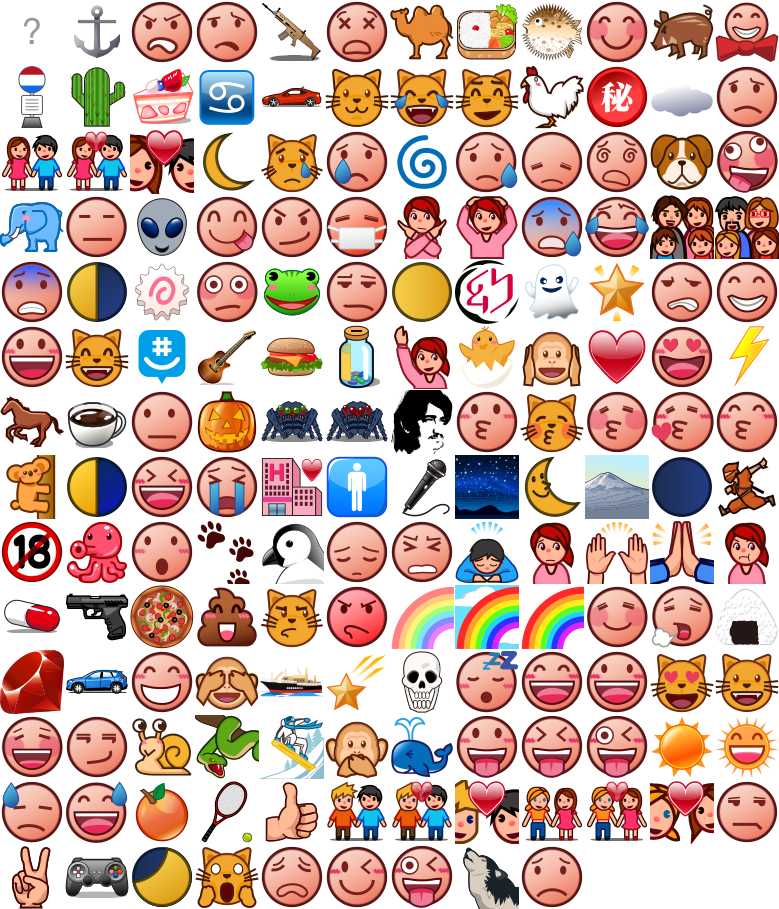
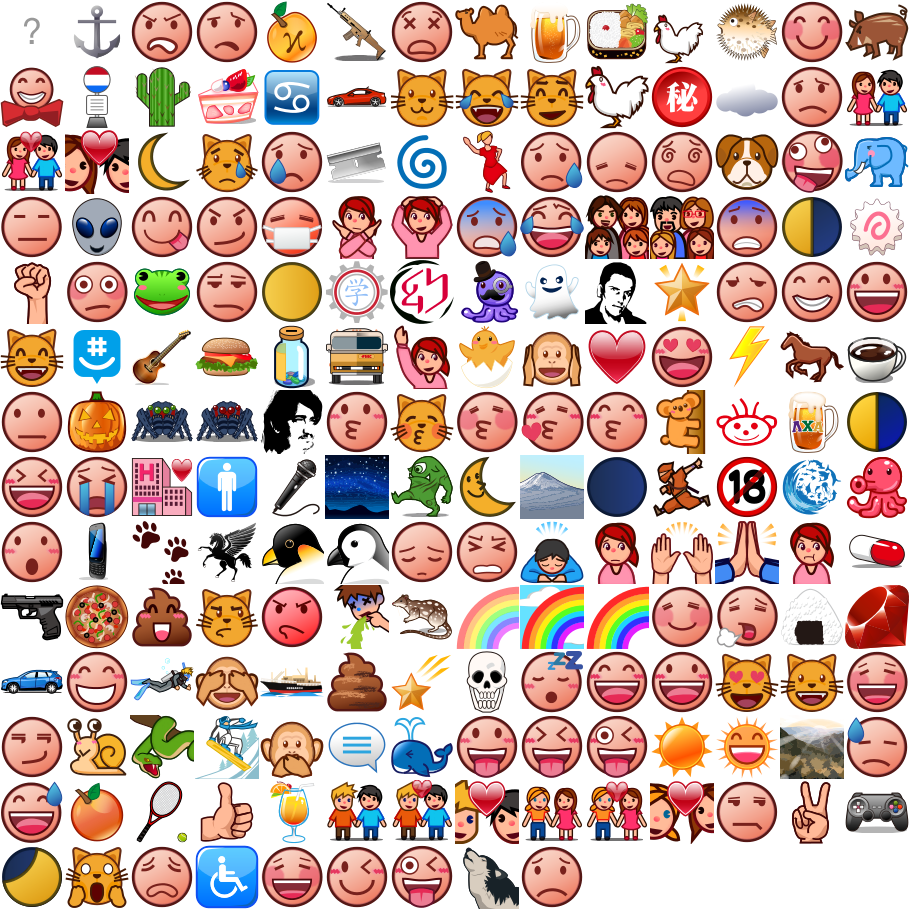
added 26 new emoji
git-svn-id: https://plugins.svn.wordpress.org/open-source-emoji/trunk@735367 b8457f37-d9ea-0310-8a92-e5e31aec5664

diff --git a/pub/css/emoji-phantom.css b/pub/css/emoji-phantom.css
@@ -37,167 +37,193 @@ small .emojified .emoji,
 
 
 /* sprite */
-.emoji-anchor { background-position: 9.103641% 0; }
-.emoji-angry_face { background-position: 18.207283% 0; }
-.emoji-anguished { background-position: 27.310924% 0; }
-.emoji-assault_rifle { background-position: 36.414566% 0; }
-.emoji-astonished_face { background-position: 45.518207% 0; }
-.emoji-bactrian_camel { background-position: 54.621849% 0; }
-.emoji-bento_box { background-position: 63.725490% 0; }
-.emoji-blowfish { background-position: 72.829132% 0; }
-.emoji-blush { background-position: 81.932773% 0; }
-.emoji-boar { background-position: 91.036415% 0; }
-.emoji-bowtie { background-position: 100.140056% 0; }
-.emoji-bus_stop { background-position: 0 7.701422%; }
-.emoji-cactus { background-position: 9.103641% 7.701422%; }
-.emoji-cake { background-position: 18.207283% 7.701422%; }
-.emoji-cancer { background-position: 27.310924% 7.701422%; }
-.emoji-car { background-position: 36.414566% 7.701422%; }
-.emoji-cat_face { background-position: 45.518207% 7.701422%; }
-.emoji-cat_face_with_tears_of_joy { background-position: 54.621849% 7.701422%; }
-.emoji-cat_face_with_wry_smile { background-position: 63.725490% 7.701422%; }
-.emoji-chicken { background-position: 72.829132% 7.701422%; }
-.emoji-circled_ideograph_secret { background-position: 81.932773% 7.701422%; }
-.emoji-cloud { background-position: 91.036415% 7.701422%; }
-.emoji-confused { background-position: 100.140056% 7.701422%; }
-.emoji-couple_holding_hands { background-position: 0 15.402844%; }
-.emoji-couple_in_love { background-position: 9.103641% 15.402844%; }
-.emoji-couple_with_heart { background-position: 18.207283% 15.402844%; }
-.emoji-crescent_moon { background-position: 27.310924% 15.402844%; }
-.emoji-crying_cat_face { background-position: 36.414566% 15.402844%; }
-.emoji-crying_face { background-position: 45.518207% 15.402844%; }
-.emoji-cyclone { background-position: 54.621849% 15.402844%; }
-.emoji-disappointed_but_relieved_face { background-position: 63.725490% 15.402844%; }
-.emoji-disappointed_face { background-position: 72.829132% 15.402844%; }
-.emoji-dizzy_face { background-position: 81.932773% 15.402844%; }
-.emoji-dog_face { background-position: 91.036415% 15.402844%; }
-.emoji-drunk { background-position: 100.140056% 15.402844%; }
-.emoji-elephant { background-position: 0 23.104265%; }
-.emoji-expressionless { background-position: 9.103641% 23.104265%; }
-.emoji-extraterrestrial_alien { background-position: 18.207283% 23.104265%; }
-.emoji-face_savouring_delicious_food { background-position: 27.310924% 23.104265%; }
-.emoji-face_with_look_of_triumph { background-position: 36.414566% 23.104265%; }
-.emoji-face_with_medical_mask { background-position: 45.518207% 23.104265%; }
-.emoji-face_with_no_good_gesture { background-position: 54.621849% 23.104265%; }
-.emoji-face_with_ok_gesture { background-position: 63.725490% 23.104265%; }
-.emoji-face_with_open_mouth_and_cold_sweat { background-position: 72.829132% 23.104265%; }
-.emoji-face_with_tear_of_joy { background-position: 81.932773% 23.104265%; }
-.emoji-family { background-position: 91.036415% 23.104265%; }
-.emoji-family_daughters { background-position: 100.140056% 23.104265%; }
-.emoji-fearful_face { background-position: 0 30.805687%; }
-.emoji-first_quarter_moon { background-position: 9.103641% 30.805687%; }
-.emoji-fish_cake_with_swirl_design { background-position: 18.207283% 30.805687%; }
-.emoji-flushed { background-position: 27.310924% 30.805687%; }
-.emoji-frog_face { background-position: 36.414566% 30.805687%; }
-.emoji-frowning { background-position: 45.518207% 30.805687%; }
-.emoji-full_moon { background-position: 54.621849% 30.805687%; }
-.emoji-genshin { background-position: 63.725490% 30.805687%; }
-.emoji-ghost { background-position: 72.829132% 30.805687%; }
-.emoji-glowing_star { background-position: 81.932773% 30.805687%; }
-.emoji-grimacing { background-position: 91.036415% 30.805687%; }
-.emoji-grin { background-position: 100.140056% 30.805687%; }
-.emoji-grinning { background-position: 0 38.507109%; }
-.emoji-grinning_cat_face_with_smiling_eyes { background-position: 9.103641% 38.507109%; }
-.emoji-groupme { background-position: 18.207283% 38.507109%; }
-.emoji-guitar { background-position: 27.310924% 38.507109%; }
-.emoji-hamburger { background-position: 36.414566% 38.507109%; }
-.emoji-happijar { background-position: 45.518207% 38.507109%; }
-.emoji-happy_person_raising_one_hand { background-position: 54.621849% 38.507109%; }
-.emoji-hatching_chick { background-position: 63.725490% 38.507109%; }
-.emoji-hear_no_evil_monkey { background-position: 72.829132% 38.507109%; }
-.emoji-heart { background-position: 81.932773% 38.507109%; }
-.emoji-heart_eyes { background-position: 91.036415% 38.507109%; }
-.emoji-high_voltage_sign { background-position: 100.140056% 38.507109%; }
-.emoji-horse { background-position: 0 46.208531%; }
-.emoji-hot_beverage { background-position: 9.103641% 46.208531%; }
-.emoji-hushed { background-position: 18.207283% 46.208531%; }
-.emoji-jack_o_lantern { background-position: 27.310924% 46.208531%; }
-.emoji-jumping_spider { background-position: 36.414566% 46.208531%; }
-.emoji-jumping_spider_red { background-position: 45.518207% 46.208531%; }
-.emoji-kagetsuki { background-position: 54.621849% 46.208531%; }
-.emoji-kissing { background-position: 63.725490% 46.208531%; }
-.emoji-kissing_cat_face_with_closed_eyes { background-position: 72.829132% 46.208531%; }
-.emoji-kissing_closed_eyes { background-position: 81.932773% 46.208531%; }
-.emoji-kissing_heart { background-position: 91.036415% 46.208531%; }
-.emoji-kissing_smiling_eyes { background-position: 100.140056% 46.208531%; }
-.emoji-koala { background-position: 0 53.909953%; }
-.emoji-last_quarter_moon { background-position: 9.103641% 53.909953%; }
-.emoji-laughing { background-position: 18.207283% 53.909953%; }
-.emoji-loudly_crying_face { background-position: 27.310924% 53.909953%; }
-.emoji-love_hotel { background-position: 36.414566% 53.909953%; }
-.emoji-mens_symbol { background-position: 45.518207% 53.909953%; }
-.emoji-microphone { background-position: 54.621849% 53.909953%; }
-.emoji-milky_way { background-position: 63.725490% 53.909953%; }
-.emoji-moon_with_face { background-position: 72.829132% 53.909953%; }
-.emoji-mount_fuji { background-position: 81.932773% 53.909953%; }
-.emoji-new_moon { background-position: 91.036415% 53.909953%; }
-.emoji-ninja { background-position: 100.140056% 53.909953%; }
-.emoji-no_one_under_eighteen_symbol { background-position: 0 61.611374%; }
-.emoji-octopus { background-position: 9.103641% 61.611374%; }
-.emoji-open_mouth { background-position: 18.207283% 61.611374%; }
-.emoji-paw_prints { background-position: 27.310924% 61.611374%; }
-.emoji-penguin { background-position: 36.414566% 61.611374%; }
-.emoji-pensive_face { background-position: 45.518207% 61.611374%; }
-.emoji-persevering_face { background-position: 54.621849% 61.611374%; }
-.emoji-person_bowing_deeply { background-position: 63.725490% 61.611374%; }
-.emoji-person_frowning { background-position: 72.829132% 61.611374%; }
-.emoji-person_raising_both_hands_in_celebration { background-position: 81.932773% 61.611374%; }
-.emoji-person_with_folded_hands { background-position: 91.036415% 61.611374%; }
-.emoji-person_with_pouting_face { background-position: 100.140056% 61.611374%; }
-.emoji-pill { background-position: 0 69.312796%; }
-.emoji-pistol { background-position: 9.103641% 69.312796%; }
-.emoji-pizza { background-position: 18.207283% 69.312796%; }
-.emoji-poop { background-position: 27.310924% 69.312796%; }
-.emoji-pouting_cat_face { background-position: 36.414566% 69.312796%; }
-.emoji-pouting_face { background-position: 45.518207% 69.312796%; }
-.emoji-rainbow { background-position: 54.621849% 69.312796%; }
-.emoji-rainbow_sky { background-position: 63.725490% 69.312796%; }
-.emoji-rainbow_solid { background-position: 72.829132% 69.312796%; }
-.emoji-relaxed { background-position: 81.932773% 69.312796%; }
-.emoji-relieved { background-position: 91.036415% 69.312796%; }
-.emoji-rice_ball { background-position: 100.140056% 69.312796%; }
-.emoji-ruby { background-position: 0 77.014218%; }
-.emoji-RV { background-position: 9.103641% 77.014218%; }
-.emoji-satisfied { background-position: 18.207283% 77.014218%; }
-.emoji-see_no_evil_monkey { background-position: 27.310924% 77.014218%; }
-.emoji-ship { background-position: 36.414566% 77.014218%; }
-.emoji-shooting_star { background-position: 45.518207% 77.014218%; }
-.emoji-skull { background-position: 54.621849% 77.014218%; }
-.emoji-sleeping { background-position: 63.725490% 77.014218%; }
-.emoji-smile { background-position: 72.829132% 77.014218%; }
-.emoji-smiley { background-position: 81.932773% 77.014218%; }
-.emoji-smiling_cat_face_with_heart_shaped_eyes { background-position: 91.036415% 77.014218%; }
-.emoji-smiling_cat_face_with_open_mouth { background-position: 100.140056% 77.014218%; }
-.emoji-smiling_face { background-position: 0 84.715640%; }
-.emoji-smirk { background-position: 9.103641% 84.715640%; }
-.emoji-snail { background-position: 18.207283% 84.715640%; }
-.emoji-snake { background-position: 27.310924% 84.715640%; }
-.emoji-snowboarder { background-position: 36.414566% 84.715640%; }
-.emoji-speak_no_evil_monkey { background-position: 45.518207% 84.715640%; }
-.emoji-spouting_whale { background-position: 54.621849% 84.715640%; }
-.emoji-stuck_out_tongue { background-position: 63.725490% 84.715640%; }
-.emoji-stuck_out_tongue_closed_eyes { background-position: 72.829132% 84.715640%; }
-.emoji-stuck_out_tongue_winking_eye { background-position: 81.932773% 84.715640%; }
-.emoji-sun { background-position: 91.036415% 84.715640%; }
-.emoji-sun_with_face { background-position: 100.140056% 84.715640%; }
-.emoji-sweat { background-position: 0 92.417062%; }
-.emoji-sweat_smile { background-position: 9.103641% 92.417062%; }
-.emoji-tangerine { background-position: 18.207283% 92.417062%; }
-.emoji-tennis_racquet_and_ball { background-position: 27.310924% 92.417062%; }
-.emoji-thumbs_up_sign { background-position: 36.414566% 92.417062%; }
-.emoji-two_men_holding_hands { background-position: 45.518207% 92.417062%; }
-.emoji-two_men_in_love { background-position: 54.621849% 92.417062%; }
-.emoji-two_men_with_heart { background-position: 63.725490% 92.417062%; }
-.emoji-two_women_holding_hands { background-position: 72.829132% 92.417062%; }
-.emoji-two_women_in_love { background-position: 81.932773% 92.417062%; }
-.emoji-two_women_with_heart { background-position: 91.036415% 92.417062%; }
-.emoji-unamused { background-position: 100.140056% 92.417062%; }
-.emoji-victory_hand { background-position: 0 100.118483%; }
-.emoji-video_game { background-position: 9.103641% 100.118483%; }
-.emoji-waxing_gibbous_moon { background-position: 18.207283% 100.118483%; }
-.emoji-weary_cat_face { background-position: 27.310924% 100.118483%; }
-.emoji-weary_face { background-position: 36.414566% 100.118483%; }
-.emoji-wink { background-position: 45.518207% 100.118483%; }
-.emoji-wink2 { background-position: 54.621849% 100.118483%; }
-.emoji-wolf_face { background-position: 63.725490% 100.118483%; }
-.emoji-worried { background-position: 72.829132% 100.118483%; }
+.emoji-anchor { background-position: 7.701422% 0; }
+.emoji-angry_face { background-position: 15.402844% 0; }
+.emoji-anguished { background-position: 23.104265% 0; }
+.emoji-apple_of_discord { background-position: 30.805687% 0; }
+.emoji-assault_rifle { background-position: 38.507109% 0; }
+.emoji-astonished_face { background-position: 46.208531% 0; }
+.emoji-bactrian_camel { background-position: 53.909953% 0; }
+.emoji-beer_mug { background-position: 61.611374% 0; }
+.emoji-bento_box { background-position: 69.312796% 0; }
+.emoji-bgok { background-position: 77.014218% 0; }
+.emoji-blowfish { background-position: 84.715640% 0; }
+.emoji-blush { background-position: 92.417062% 0; }
+.emoji-boar { background-position: 100.118483% 0; }
+.emoji-bowtie { background-position: 0 7.701422%; }
+.emoji-bus_stop { background-position: 7.701422% 7.701422%; }
+.emoji-cactus { background-position: 15.402844% 7.701422%; }
+.emoji-cake { background-position: 23.104265% 7.701422%; }
+.emoji-cancer { background-position: 30.805687% 7.701422%; }
+.emoji-car { background-position: 38.507109% 7.701422%; }
+.emoji-cat_face { background-position: 46.208531% 7.701422%; }
+.emoji-cat_face_with_tears_of_joy { background-position: 53.909953% 7.701422%; }
+.emoji-cat_face_with_wry_smile { background-position: 61.611374% 7.701422%; }
+.emoji-chicken { background-position: 69.312796% 7.701422%; }
+.emoji-circled_ideograph_secret { background-position: 77.014218% 7.701422%; }
+.emoji-cloud { background-position: 84.715640% 7.701422%; }
+.emoji-confused { background-position: 92.417062% 7.701422%; }
+.emoji-couple_holding_hands { background-position: 100.118483% 7.701422%; }
+.emoji-couple_in_love { background-position: 0 15.402844%; }
+.emoji-couple_with_heart { background-position: 7.701422% 15.402844%; }
+.emoji-crescent_moon { background-position: 15.402844% 15.402844%; }
+.emoji-crying_cat_face { background-position: 23.104265% 15.402844%; }
+.emoji-crying_face { background-position: 30.805687% 15.402844%; }
+.emoji-cutting_lines { background-position: 38.507109% 15.402844%; }
+.emoji-cyclone { background-position: 46.208531% 15.402844%; }
+.emoji-dancer { background-position: 53.909953% 15.402844%; }
+.emoji-disappointed_but_relieved_face { background-position: 61.611374% 15.402844%; }
+.emoji-disappointed_face { background-position: 69.312796% 15.402844%; }
+.emoji-dizzy_face { background-position: 77.014218% 15.402844%; }
+.emoji-dog_face { background-position: 84.715640% 15.402844%; }
+.emoji-drunk { background-position: 92.417062% 15.402844%; }
+.emoji-elephant { background-position: 100.118483% 15.402844%; }
+.emoji-expressionless { background-position: 0 23.104265%; }
+.emoji-extraterrestrial_alien { background-position: 7.701422% 23.104265%; }
+.emoji-face_savouring_delicious_food { background-position: 15.402844% 23.104265%; }
+.emoji-face_with_look_of_triumph { background-position: 23.104265% 23.104265%; }
+.emoji-face_with_medical_mask { background-position: 30.805687% 23.104265%; }
+.emoji-face_with_no_good_gesture { background-position: 38.507109% 23.104265%; }
+.emoji-face_with_ok_gesture { background-position: 46.208531% 23.104265%; }
+.emoji-face_with_open_mouth_and_cold_sweat { background-position: 53.909953% 23.104265%; }
+.emoji-face_with_tear_of_joy { background-position: 61.611374% 23.104265%; }
+.emoji-family { background-position: 69.312796% 23.104265%; }
+.emoji-family_daughters { background-position: 77.014218% 23.104265%; }
+.emoji-fearful_face { background-position: 84.715640% 23.104265%; }
+.emoji-first_quarter_moon { background-position: 92.417062% 23.104265%; }
+.emoji-fish_cake_with_swirl_design { background-position: 100.118483% 23.104265%; }
+.emoji-fisted_hand_sign { background-position: 0 30.805687%; }
+.emoji-flushed { background-position: 7.701422% 30.805687%; }
+.emoji-frog_face { background-position: 15.402844% 30.805687%; }
+.emoji-frowning { background-position: 23.104265% 30.805687%; }
+.emoji-full_moon { background-position: 30.805687% 30.805687%; }
+.emoji-gakuengine { background-position: 38.507109% 30.805687%; }
+.emoji-genshin { background-position: 46.208531% 30.805687%; }
+.emoji-gentleman_octopus { background-position: 53.909953% 30.805687%; }
+.emoji-ghost { background-position: 61.611374% 30.805687%; }
+.emoji-Giorgio { background-position: 69.312796% 30.805687%; }
+.emoji-glowing_star { background-position: 77.014218% 30.805687%; }
+.emoji-grimacing { background-position: 84.715640% 30.805687%; }
+.emoji-grin { background-position: 92.417062% 30.805687%; }
+.emoji-grinning { background-position: 100.118483% 30.805687%; }
+.emoji-grinning_cat_face_with_smiling_eyes { background-position: 0 38.507109%; }
+.emoji-groupme { background-position: 7.701422% 38.507109%; }
+.emoji-guitar { background-position: 15.402844% 38.507109%; }
+.emoji-hamburger { background-position: 23.104265% 38.507109%; }
+.emoji-happijar { background-position: 30.805687% 38.507109%; }
+.emoji-Happy_FMC { background-position: 38.507109% 38.507109%; }
+.emoji-happy_person_raising_one_hand { background-position: 46.208531% 38.507109%; }
+.emoji-hatching_chick { background-position: 53.909953% 38.507109%; }
+.emoji-hear_no_evil_monkey { background-position: 61.611374% 38.507109%; }
+.emoji-heart { background-position: 69.312796% 38.507109%; }
+.emoji-heart_eyes { background-position: 77.014218% 38.507109%; }
+.emoji-high_voltage_sign { background-position: 84.715640% 38.507109%; }
+.emoji-horse { background-position: 92.417062% 38.507109%; }
+.emoji-hot_beverage { background-position: 100.118483% 38.507109%; }
+.emoji-hushed { background-position: 0 46.208531%; }
+.emoji-jack_o_lantern { background-position: 7.701422% 46.208531%; }
+.emoji-jumping_spider { background-position: 15.402844% 46.208531%; }
+.emoji-jumping_spider_red { background-position: 23.104265% 46.208531%; }
+.emoji-kagetsuki { background-position: 30.805687% 46.208531%; }
+.emoji-kissing { background-position: 38.507109% 46.208531%; }
+.emoji-kissing_cat_face_with_closed_eyes { background-position: 46.208531% 46.208531%; }
+.emoji-kissing_closed_eyes { background-position: 53.909953% 46.208531%; }
+.emoji-kissing_heart { background-position: 61.611374% 46.208531%; }
+.emoji-kissing_smiling_eyes { background-position: 69.312796% 46.208531%; }
+.emoji-koala { background-position: 77.014218% 46.208531%; }
+.emoji-ksroom { background-position: 84.715640% 46.208531%; }
+.emoji-lambda_chi_alpha { background-position: 92.417062% 46.208531%; }
+.emoji-last_quarter_moon { background-position: 100.118483% 46.208531%; }
+.emoji-laughing { background-position: 0 53.909953%; }
+.emoji-loudly_crying_face { background-position: 7.701422% 53.909953%; }
+.emoji-love_hotel { background-position: 15.402844% 53.909953%; }
+.emoji-mens_symbol { background-position: 23.104265% 53.909953%; }
+.emoji-microphone { background-position: 30.805687% 53.909953%; }
+.emoji-milky_way { background-position: 38.507109% 53.909953%; }
+.emoji-monster { background-position: 46.208531% 53.909953%; }
+.emoji-moon_with_face { background-position: 53.909953% 53.909953%; }
+.emoji-mount_fuji { background-position: 61.611374% 53.909953%; }
+.emoji-new_moon { background-position: 69.312796% 53.909953%; }
+.emoji-ninja { background-position: 77.014218% 53.909953%; }
+.emoji-no_one_under_eighteen_symbol { background-position: 84.715640% 53.909953%; }
+.emoji-ocean_dive_view { background-position: 92.417062% 53.909953%; }
+.emoji-octopus { background-position: 100.118483% 53.909953%; }
+.emoji-open_mouth { background-position: 0 61.611374%; }
+.emoji-palm_pre3 { background-position: 7.701422% 61.611374%; }
+.emoji-paw_prints { background-position: 15.402844% 61.611374%; }
+.emoji-pegasus_black { background-position: 23.104265% 61.611374%; }
+.emoji-penguin { background-position: 30.805687% 61.611374%; }
+.emoji-penguin_chick { background-position: 38.507109% 61.611374%; }
+.emoji-pensive_face { background-position: 46.208531% 61.611374%; }
+.emoji-persevering_face { background-position: 53.909953% 61.611374%; }
+.emoji-person_bowing_deeply { background-position: 61.611374% 61.611374%; }
+.emoji-person_frowning { background-position: 69.312796% 61.611374%; }
+.emoji-person_raising_both_hands_in_celebration { background-position: 77.014218% 61.611374%; }
+.emoji-person_with_folded_hands { background-position: 84.715640% 61.611374%; }
+.emoji-person_with_pouting_face { background-position: 92.417062% 61.611374%; }
+.emoji-pill { background-position: 100.118483% 61.611374%; }
+.emoji-pistol { background-position: 0 69.312796%; }
+.emoji-pizza { background-position: 7.701422% 69.312796%; }
+.emoji-poop { background-position: 15.402844% 69.312796%; }
+.emoji-pouting_cat_face { background-position: 23.104265% 69.312796%; }
+.emoji-pouting_face { background-position: 30.805687% 69.312796%; }
+.emoji-puke_finger { background-position: 38.507109% 69.312796%; }
+.emoji-quoll { background-position: 46.208531% 69.312796%; }
+.emoji-rainbow { background-position: 53.909953% 69.312796%; }
+.emoji-rainbow_sky { background-position: 61.611374% 69.312796%; }
+.emoji-rainbow_solid { background-position: 69.312796% 69.312796%; }
+.emoji-relaxed { background-position: 77.014218% 69.312796%; }
+.emoji-relieved { background-position: 84.715640% 69.312796%; }
+.emoji-rice_ball { background-position: 92.417062% 69.312796%; }
+.emoji-ruby { background-position: 100.118483% 69.312796%; }
+.emoji-RV { background-position: 0 77.014218%; }
+.emoji-satisfied { background-position: 7.701422% 77.014218%; }
+.emoji-scuba_diver { background-position: 15.402844% 77.014218%; }
+.emoji-see_no_evil_monkey { background-position: 23.104265% 77.014218%; }
+.emoji-ship { background-position: 30.805687% 77.014218%; }
+.emoji-shit { background-position: 38.507109% 77.014218%; }
+.emoji-shooting_star { background-position: 46.208531% 77.014218%; }
+.emoji-skull { background-position: 53.909953% 77.014218%; }
+.emoji-sleeping { background-position: 61.611374% 77.014218%; }
+.emoji-smile { background-position: 69.312796% 77.014218%; }
+.emoji-smiley { background-position: 77.014218% 77.014218%; }
+.emoji-smiling_cat_face_with_heart_shaped_eyes { background-position: 84.715640% 77.014218%; }
+.emoji-smiling_cat_face_with_open_mouth { background-position: 92.417062% 77.014218%; }
+.emoji-smiling_face { background-position: 100.118483% 77.014218%; }
+.emoji-smirk { background-position: 0 84.715640%; }
+.emoji-snail { background-position: 7.701422% 84.715640%; }
+.emoji-snake { background-position: 15.402844% 84.715640%; }
+.emoji-snowboarder { background-position: 23.104265% 84.715640%; }
+.emoji-speak_no_evil_monkey { background-position: 30.805687% 84.715640%; }
+.emoji-speech_balloon { background-position: 38.507109% 84.715640%; }
+.emoji-spouting_whale { background-position: 46.208531% 84.715640%; }
+.emoji-stuck_out_tongue { background-position: 53.909953% 84.715640%; }
+.emoji-stuck_out_tongue_closed_eyes { background-position: 61.611374% 84.715640%; }
+.emoji-stuck_out_tongue_winking_eye { background-position: 69.312796% 84.715640%; }
+.emoji-sun { background-position: 77.014218% 84.715640%; }
+.emoji-sun_with_face { background-position: 84.715640% 84.715640%; }
+.emoji-sunrise_over_mountains { background-position: 92.417062% 84.715640%; }
+.emoji-sweat { background-position: 100.118483% 84.715640%; }
+.emoji-sweat_smile { background-position: 0 92.417062%; }
+.emoji-tangerine { background-position: 7.701422% 92.417062%; }
+.emoji-tennis_racquet_and_ball { background-position: 15.402844% 92.417062%; }
+.emoji-thumbs_up_sign { background-position: 23.104265% 92.417062%; }
+.emoji-tropical_drink { background-position: 30.805687% 92.417062%; }
+.emoji-two_men_holding_hands { background-position: 38.507109% 92.417062%; }
+.emoji-two_men_in_love { background-position: 46.208531% 92.417062%; }
+.emoji-two_men_with_heart { background-position: 53.909953% 92.417062%; }
+.emoji-two_women_holding_hands { background-position: 61.611374% 92.417062%; }
+.emoji-two_women_in_love { background-position: 69.312796% 92.417062%; }
+.emoji-two_women_with_heart { background-position: 77.014218% 92.417062%; }
+.emoji-unamused { background-position: 84.715640% 92.417062%; }
+.emoji-victory_hand { background-position: 92.417062% 92.417062%; }
+.emoji-video_game { background-position: 100.118483% 92.417062%; }
+.emoji-waxing_gibbous_moon { background-position: 0 100.118483%; }
+.emoji-weary_cat_face { background-position: 7.701422% 100.118483%; }
+.emoji-weary_face { background-position: 15.402844% 100.118483%; }
+.emoji-wheelchair { background-position: 23.104265% 100.118483%; }
+.emoji-white_smiling_face { background-position: 30.805687% 100.118483%; }
+.emoji-wink { background-position: 38.507109% 100.118483%; }
+.emoji-wink2 { background-position: 46.208531% 100.118483%; }
+.emoji-wolf_face { background-position: 53.909953% 100.118483%; }
+.emoji-worried { background-position: 61.611374% 100.118483%; }

diff --git a/emoji.php b/emoji.php
@@ -4,7 +4,7 @@ Plugin Name: Open Source Emoji
 Plugin URI: http://wordpress.org/extend/plugins/open-source-emoji/
 Description: Open Source Emoji - add Android and Phantom Emoji to your blog for all devices.
 Author: Tim Whitlock
-Version: 1.0.5
+Version: 1.0.6
 Author URI: http://timwhitlock.info/
 */
 
